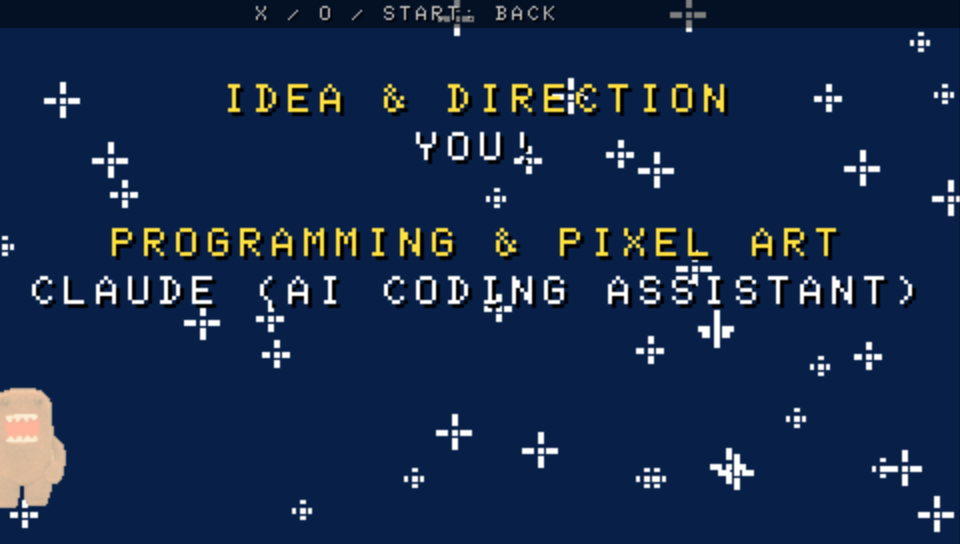
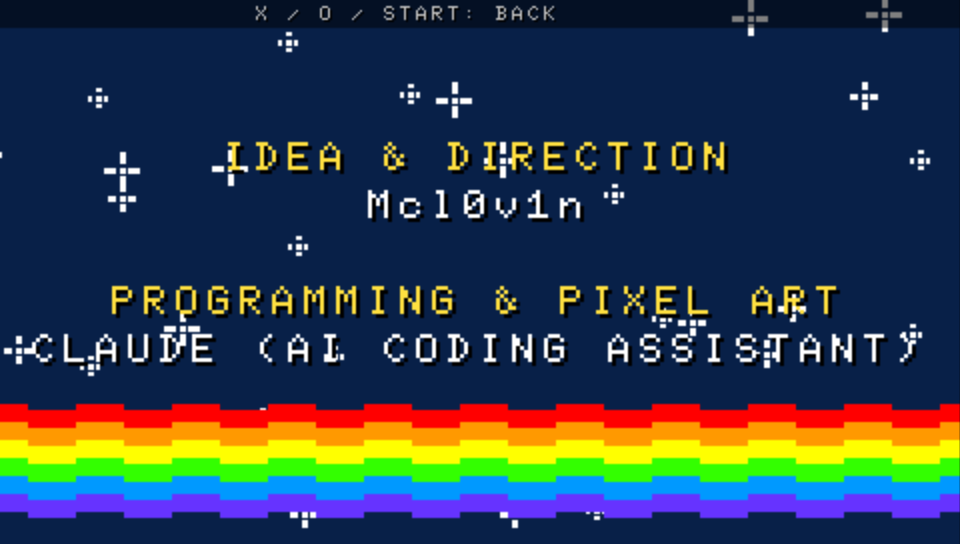
Credit Mcl0v1n in-game, add vibecoded disclaimer to README

diff --git a/main.c b/main.c
@@ -975,7 +975,7 @@ static const char *credits[] = {
     "#DOMO-KUN",
     "",
     "*IDEA & DIRECTION",
-    "YOU!",
+    "Mcl0v1n",
     "",
     "*PROGRAMMING & PIXEL ART",
     "CLAUDE (AI CODING ASSISTANT)",

diff --git a/README.md b/README.md
@@ -2,6 +2,8 @@
 
 A homebrew shoot-'em-up vidya for the **Sony PSP**. Fly Nyan Cat through space, dodge the Domo-kun horde's spit balls and eye lasers, and blast them with your own laser eyes. 🌈🐱⚡
 
+> ⚠ **This vidya is 100% vibecoded.** See the [vibecoded disclaimer](#-vibecoded-disclaimer) before you read the code.
+
 ![Title screen](docs/screenshots/title.png)
 
 | Gameplay | Domo eye lasers |
@@ -88,12 +90,23 @@ The generated headers are committed, so building only needs the toolchain. To ch
 
 ## Credits
 
-- **Idea & direction:** [McL0v1n-therealone](https://github.com/McL0v1n-therealone)
+- **Idea & direction:** Mcl0v1n ([McL0v1n-therealone](https://github.com/McL0v1n-therealone))
 - **Programming & pixel art:** Claude (AI coding assistant)
 - **Nyan Cat** character: Chris Torres (2011)
 - **Domo-kun** character: NHK / Tsuneo Goda (1998)
 - **Domo-kun PNG** used in the title art: by nickfamzi
 - **Toolchain:** [PSPDEV / PSPSDK](https://github.com/pspdev) · tested in [PPSSPP](https://www.ppsspp.org/)
+
+## 🤖 Vibecoded disclaimer
+
+This project was **vibecoded**. Mcl0v1n described what they wanted ("make the Domo-kuns shoot lazers too", "a 4 year old can beat this") and an AI coding assistant (Claude) wrote, built and tested everything. That includes the C code, the pixel art, the sprite and logo scripts, and the build and deploy setup. In practice that means:
+
+- **No human reviewed the code line by line.** It works, but it is one big `main.c` that grew feature by feature. Expect magic numbers, copy-pasted logic and not much structure.
+- **Testing was mostly in the PPSSPP emulator**, by scripted key presses and screenshots, plus a few runs on a real PSP. Real hardware showed rendering glitches that the emulator didn't, and the fixes have had little real-hardware testing so far.
+- **Difficulty tuning is based on vibes**, not playtesting. Domo attack timings and speeds were changed whenever someone said it was too easy.
+- **Use it as a fun example, not a reference** for how to write PSP homebrew properly. If you want to learn, read the [PSPDEV docs](https://pspdev.github.io/) too.
+
+Bug reports and PRs are welcome, vibecoded or not.
 
 ## Disclaimer
 
